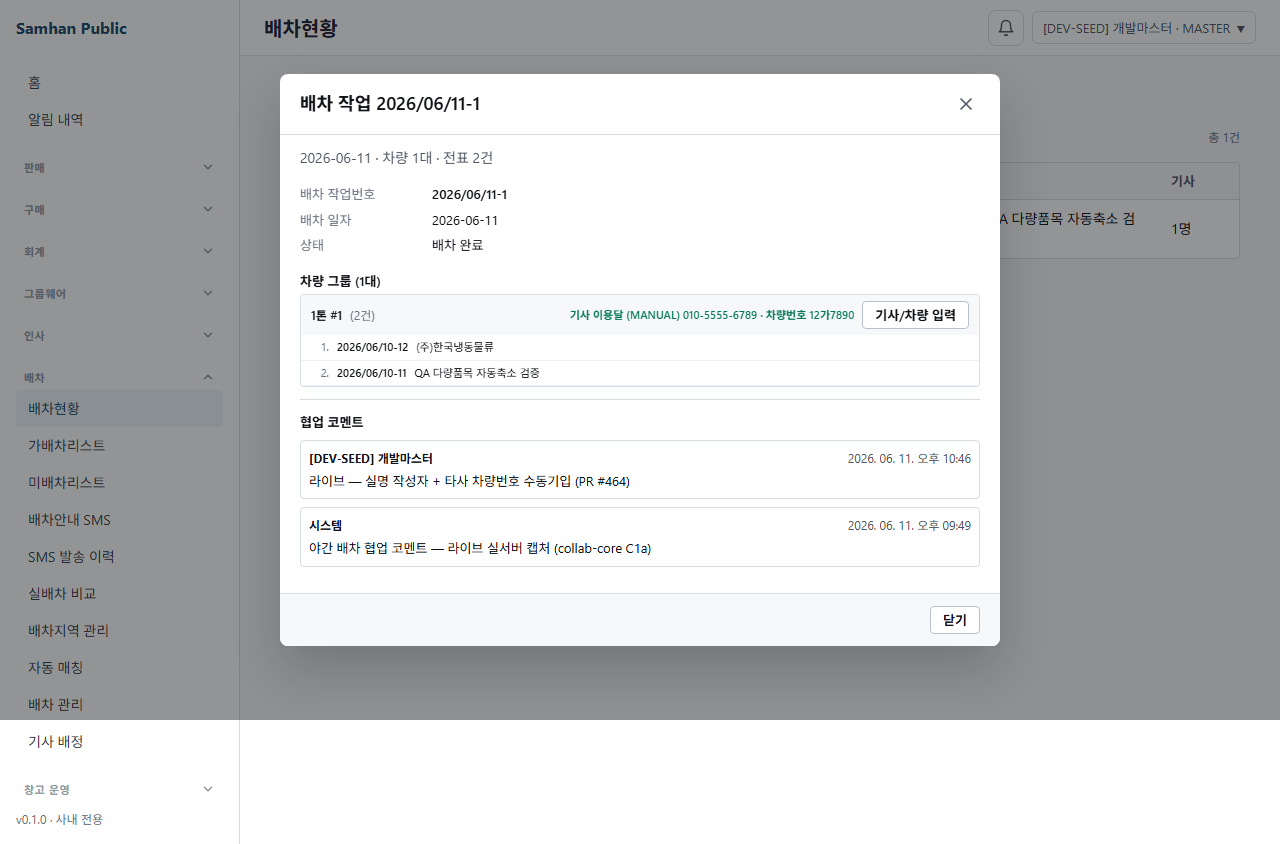
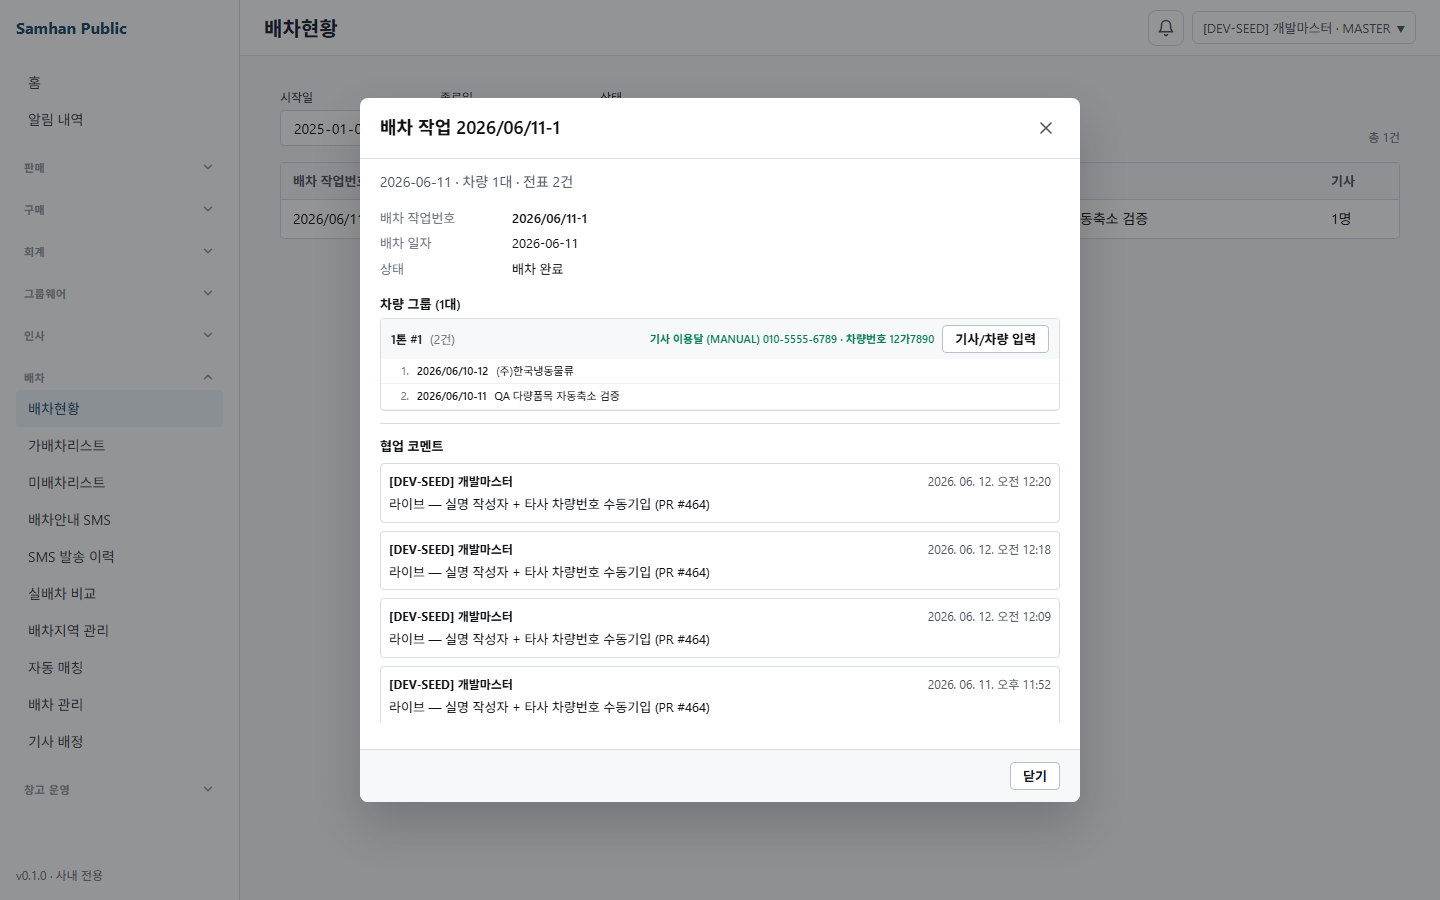
[FIX] #464 — X-User-Name 한글 모지바케 charset-repair + 라이브 캡처 GREEN
게이트웨이가 모든 요청에 URL-encoded X-User-Name(한글 표시명)을 주입하나,
servlet 컨테이너(Tomcat)가 HTTP 헤더를 ISO-8859-1 로 디코딩하는 경로에서
raw UTF-8 바이트(특히 0xED 로 시작하는 "터" = U+D130 = ED 84 B0)가
C1 control 문자로 깨져 audit/협업 코멘트 actorName 에 모지바케로 영속되던 문제.

- UserHeaderDecodingFilter: URLDecoder 디코딩 후 repairUtf8BytesReadAsIso88591
  로 ISO-8859-1 로 읽힌 UTF-8 바이트열을 재해석 복원. URL-encoded·raw 양 경로 커버,
  C1 control 미포함(정상 한글)이면 무변경, decode 실패 시 원값 보존.
- 필터 단위테스트 3건: URL-encoded 한글(%ED..) / raw UTF-8→ISO-8859-1 복원 /
  유효 prefix + raw byte tail 부분 손상 복원.
- slip IT(DispatchCollabCommentIT): URL-encoded 한글 X-User-Name →
  authorName "[DEV-SEED] 개발마스터" 영속 왕복 검증.
- 라이브 캡처(dispatch-author-plate-real-qa): 반복 캡처 누적 코멘트로 인한
  strict-mode 위반 → .first() 단언. 재캡처 결과 작성자 "[DEV-SEED] 개발마스터"
  + 차량번호 "12가7890" 정상 렌더 확인(모지바케 해소).

QA: docs/qa/dispatch-author-plate/author-plate-live.png (실 게이트웨이:8080,
실 Postgres, mock OFF, dev_master 로그인) — 실명 작성자 + 타사 수동 차량번호.

diff --git a/clients/desktop/playwright/dispatch-completed-history/dispatch-author-plate-real-qa.spec.ts b/clients/desktop/playwright/dispatch-completed-history/dispatch-author-plate-real-qa.spec.ts
@@ -83,10 +83,13 @@ test('배차현황 실 데이터 라이브 캡처 — 실명 작성자 + 타사 
   await page.waitForSelector('[data-testid^="dispatch-history-row-"]', { timeout: 15000 })
   await page.locator('[data-testid^="dispatch-history-row-"]').first().click()
   await expect(page.getByTestId('dispatch-task-detail-body')).toBeVisible({ timeout: 10000 })
-  await expect(page.getByText('12가7890')).toBeVisible({ timeout: 10000 })
-  await expect(page.getByText(body)).toBeVisible({ timeout: 10000 })
+  await expect(page.getByText('12가7890').first()).toBeVisible({ timeout: 10000 })
+  // 반복 캡처로 동일 본문 코멘트가 누적될 수 있어 .first() 로 존재만 단언
+  await expect(page.getByText(body).first()).toBeVisible({ timeout: 10000 })
   // 작성자 실명(= 로그인 displayName) 표시 — "시스템" 아님
-  await expect(page.getByTestId('dispatch-comment-thread').getByText(login.displayName)).toBeVisible({ timeout: 10000 })
+  await expect(
+    page.getByTestId('dispatch-comment-thread').getByText(login.displayName).first(),
+  ).toBeVisible({ timeout: 10000 })
   await page.waitForTimeout(800)
   await page.screenshot({ path: path.join(SHOTS, 'author-plate-live.png'), fullPage: true })
 })

diff --git a/shared/security/src/main/java/com/samhanair/logis/security/UserHeaderDecodingFilter.java b/shared/security/src/main/java/com/samhanair/logis/security/UserHeaderDecodingFilter.java
@@ -7,6 +7,9 @@ import jakarta.servlet.http.HttpServletRequestWrapper;
 import jakarta.servlet.http.HttpServletResponse;
 import java.io.IOException;
 import java.net.URLDecoder;
+import java.nio.ByteBuffer;
+import java.nio.charset.CharacterCodingException;
+import java.nio.charset.CodingErrorAction;
 import java.nio.charset.StandardCharsets;
 import java.util.Collections;
 import java.util.Enumeration;
@@ -36,6 +39,10 @@ public class UserHeaderDecodingFilter extends OncePerRequestFilter {
     }
 
     private static String decodeUserName(String value) {
+        return repairUtf8BytesReadAsIso88591(decodeUrlEncodedUserName(value));
+    }
+
+    private static String decodeUrlEncodedUserName(String value) {
         if (value == null || (!value.contains("%") && !value.contains("+"))) {
             return value;
         }
@@ -44,6 +51,59 @@ public class UserHeaderDecodingFilter extends OncePerRequestFilter {
         } catch (IllegalArgumentException ex) {
             return value;
         }
+    }
+
+    private static String repairUtf8BytesReadAsIso88591(String value) {
+        if (value == null || !hasC1Control(value)) {
+            return value;
+        }
+        StringBuilder repaired = new StringBuilder(value.length());
+        int start = 0;
+        while (start < value.length()) {
+            char ch = value.charAt(start);
+            if (ch > '\u00FF') {
+                repaired.append(ch);
+                start++;
+                continue;
+            }
+            int end = start + 1;
+            boolean hasControl = ch >= '\u0080' && ch <= '\u009F';
+            while (end < value.length() && value.charAt(end) <= '\u00FF') {
+                char next = value.charAt(end);
+                hasControl = hasControl || (next >= '\u0080' && next <= '\u009F');
+                end++;
+            }
+            String segment = value.substring(start, end);
+            repaired.append(hasControl ? repairIso88591Segment(segment) : segment);
+            start = end;
+        }
+        return repaired.toString();
+    }
+
+    private static String repairIso88591Segment(String segment) {
+        try {
+            String repaired = StandardCharsets.UTF_8.newDecoder()
+                    .onMalformedInput(CodingErrorAction.REPORT)
+                    .onUnmappableCharacter(CodingErrorAction.REPORT)
+                    .decode(ByteBuffer.wrap(segment.getBytes(StandardCharsets.ISO_8859_1)))
+                    .toString();
+            if (!hasC1Control(repaired) && !repaired.equals(segment)) {
+                return repaired;
+            }
+        } catch (CharacterCodingException ex) {
+            return segment;
+        }
+        return segment;
+    }
+
+    private static boolean hasC1Control(String value) {
+        for (int i = 0; i < value.length(); i++) {
+            char ch = value.charAt(i);
+            if (ch >= '\u0080' && ch <= '\u009F') {
+                return true;
+            }
+        }
+        return false;
     }
 
     private static boolean isUserNameHeader(String name) {

diff --git a/shared/security/src/test/java/com/samhanair/logis/security/UserHeaderDecodingFilterTest.java b/shared/security/src/test/java/com/samhanair/logis/security/UserHeaderDecodingFilterTest.java
@@ -3,6 +3,7 @@ package com.samhanair.logis.security;
 import static org.assertj.core.api.Assertions.assertThat;
 
 import jakarta.servlet.FilterChain;
+import java.nio.charset.StandardCharsets;
 import java.util.Collections;
 import org.junit.jupiter.api.Test;
 import org.springframework.mock.web.MockFilterChain;
@@ -41,6 +42,56 @@ class UserHeaderDecodingFilterTest {
         filter.doFilter(req, res, chain);
 
         assertThat(chain.userName()).isEqualTo("Hong Gil Dong");
+    }
+
+    @Test
+    void encodedDevSeedKoreanUserNameHeader_isDecodedForDownstreamConsumers() throws Exception {
+        UserHeaderDecodingFilter filter = new UserHeaderDecodingFilter();
+        MockHttpServletRequest req = new MockHttpServletRequest("GET", "/slips");
+        req.addHeader(
+                "X-User-Name",
+                "%5BDEV-SEED%5D+%EA%B0%9C%EB%B0%9C%EB%A7%88%EC%8A%A4%ED%84%B0");
+        MockHttpServletResponse res = new MockHttpServletResponse();
+        CapturingChain chain = new CapturingChain();
+
+        filter.doFilter(req, res, chain);
+
+        assertThat(chain.userName()).isEqualTo("[DEV-SEED] \uAC1C\uBC1C\uB9C8\uC2A4\uD130");
+    }
+
+    @Test
+    void rawUtf8UserNameHeaderReadAsIso88591_isRestoredForDownstreamConsumers() throws Exception {
+        UserHeaderDecodingFilter filter = new UserHeaderDecodingFilter();
+        MockHttpServletRequest req = new MockHttpServletRequest("GET", "/slips");
+        String displayName = "[DEV-SEED] \uAC1C\uBC1C\uB9C8\uC2A4\uD130";
+        String servletMojibake = new String(
+                displayName.getBytes(StandardCharsets.UTF_8),
+                StandardCharsets.ISO_8859_1);
+        req.addHeader("X-User-Name", servletMojibake);
+        MockHttpServletResponse res = new MockHttpServletResponse();
+        CapturingChain chain = new CapturingChain();
+
+        filter.doFilter(req, res, chain);
+
+        assertThat(chain.userName()).isEqualTo(displayName);
+        assertThat(Collections.list(chain.request.getHeaders("X-User-Name"))).containsExactly(displayName);
+    }
+
+    @Test
+    void mixedValidKoreanAndRawUtf8ByteTail_isRestoredWithoutCorruptingValidPrefix() throws Exception {
+        UserHeaderDecodingFilter filter = new UserHeaderDecodingFilter();
+        MockHttpServletRequest req = new MockHttpServletRequest("GET", "/slips");
+        String displayName = "[DEV-SEED] \uAC1C\uBC1C\uB9C8\uC2A4\uD130";
+        String rawByteTail = new String(
+                "\uD130".getBytes(StandardCharsets.UTF_8),
+                StandardCharsets.ISO_8859_1);
+        req.addHeader("X-User-Name", "[DEV-SEED] \uAC1C\uBC1C\uB9C8\uC2A4" + rawByteTail);
+        MockHttpServletResponse res = new MockHttpServletResponse();
+        CapturingChain chain = new CapturingChain();
+
+        filter.doFilter(req, res, chain);
+
+        assertThat(chain.userName()).isEqualTo(displayName);
     }
 
     @Test

diff --git a/services/slip-service/src/test/java/com/samhanair/logis/slip/it/dispatch/DispatchCollabCommentIT.java b/services/slip-service/src/test/java/com/samhanair/logis/slip/it/dispatch/DispatchCollabCommentIT.java
@@ -26,6 +26,8 @@ import com.samhanair.logis.slip.delivery.sms.SmsGateway;
 import com.samhanair.logis.slip.domain.dispatch.DispatchTask;
 import com.samhanair.logis.slip.it.AbstractPostgresIT;
 import com.samhanair.logis.slip.repository.dispatch.DispatchTaskRepository;
+import java.net.URLEncoder;
+import java.nio.charset.StandardCharsets;
 import java.time.LocalDate;
 import java.util.Map;
 import java.util.Optional;
@@ -121,6 +123,26 @@ class DispatchCollabCommentIT extends AbstractPostgresIT {
                 .andExpect(status().isOk())
                 .andExpect(jsonPath("$.success").value(true))
                 .andExpect(jsonPath("$.data.length()").value(0));
+    }
+
+    @Test
+    void post_comment_decodes_urlEncodedKoreanUserNameHeader_beforeAuthorNameResolution() throws Exception {
+        UUID taskId = seedTask("2099/06/12-COMMENT-ENCODED-AUTHOR").getId();
+        String displayName = "[DEV-SEED] \uAC1C\uBC1C\uB9C8\uC2A4\uD130";
+        String body = "\uBC30\uCC28 \uCF54\uBA58\uD2B8 \uBCF8\uBB38\uC740 \uC815\uC0C1 \uC800\uC7A5";
+        String encodedDisplayName = URLEncoder.encode(displayName, StandardCharsets.UTF_8);
+
+        mvc.perform(post("/admin/dispatch-tasks/{taskId}/comments", taskId)
+                        .header(USER_ID_HEADER, DISPATCH_ACCOUNT_ID)
+                        .header(USER_NAME_HEADER, encodedDisplayName)
+                        .contentType(MediaType.APPLICATION_JSON)
+                        .content(objectMapper.writeValueAsString(Map.of(
+                                "body", body,
+                                "anchor", "vehicleGroups[0]"))))
+                .andExpect(status().isCreated())
+                .andExpect(jsonPath("$.success").value(true))
+                .andExpect(jsonPath("$.data.body").value(body))
+                .andExpect(jsonPath("$.data.authorName").value(displayName));
     }
 
     @Test
